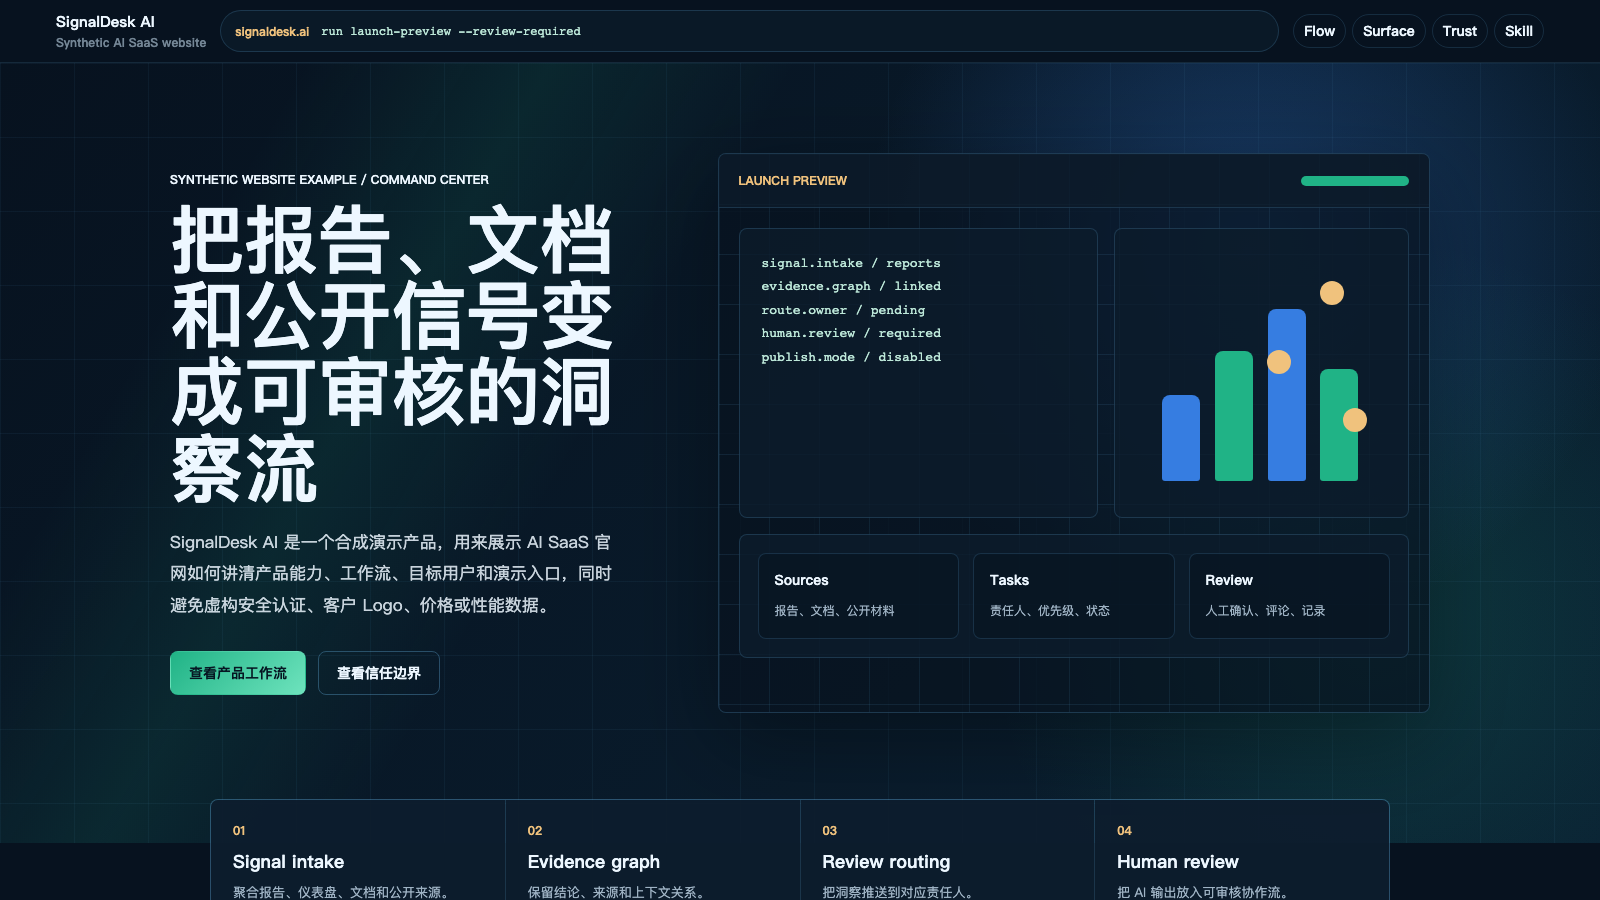
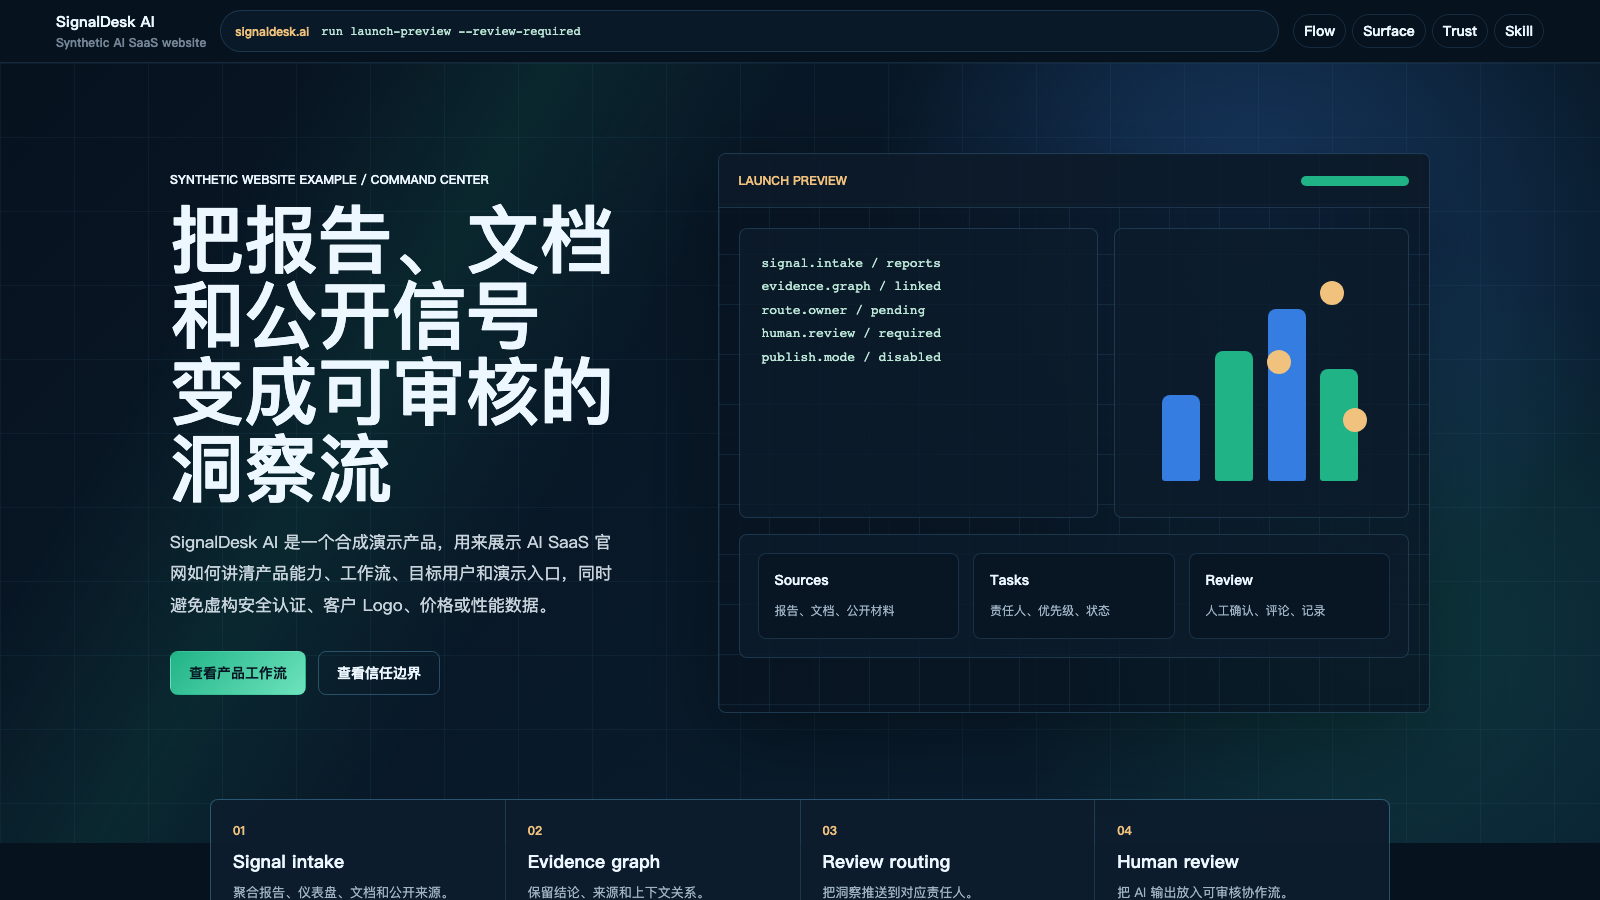
Fix responsive demo alignment

Changed region(s): [[0.0938, 0.3111, 0.4062, 0.56]]

diff --git a/site/examples/example-sites.css b/site/examples/example-sites.css
@@ -38,6 +38,26 @@ p {
   margin-top: 0;
 }
 
+h1,
+h2,
+h3,
+.button,
+nav a,
+strong,
+b {
+  overflow-wrap: anywhere;
+}
+
+p,
+li,
+span {
+  overflow-wrap: break-word;
+}
+
+.hero-phrase {
+  display: inline-block;
+}
+
 .site-header {
   position: sticky;
   top: 0;
@@ -239,6 +259,7 @@ nav a:focus-visible {
   font-size: clamp(42px, 6.2vw, 76px);
   line-height: 1.02;
   font-weight: 900;
+  text-wrap: normal;
 }
 
 .b2b-hero-copy {
@@ -708,6 +729,7 @@ nav a:focus-visible {
   margin-bottom: 20px;
   font-size: clamp(42px, 5.8vw, 72px);
   line-height: 1.04;
+  text-wrap: normal;
 }
 
 .industrial-hero-copy {
@@ -1326,6 +1348,7 @@ nav a:focus-visible {
   margin-bottom: 20px;
   font-size: clamp(42px, 5.9vw, 74px);
   line-height: 1.03;
+  text-wrap: normal;
 }
 
 .ai-hero-copy {
@@ -1737,6 +1760,197 @@ nav a:focus-visible {
   .b2b-footer-index b {
     font-size: 14px;
     line-height: 1.35;
+  }
+}
+
+@media (min-width: 1061px) and (max-width: 1280px) {
+  .section {
+    padding: 78px 0;
+  }
+
+  .section-head {
+    max-width: 680px;
+    margin-bottom: 30px;
+  }
+
+  .section-head h2 {
+    font-size: clamp(30px, 3.6vw, 40px);
+    line-height: 1.16;
+  }
+
+  .demo-b2b main,
+  .demo-b2b .b2b-footer {
+    margin-left: 240px;
+  }
+
+  .demo-b2b .site-header.b2b-rail {
+    width: 240px;
+    padding: 26px 20px;
+  }
+
+  .demo-b2b .site-header.b2b-rail .brand strong {
+    max-width: 180px;
+    font-size: 19px;
+    line-height: 1.12;
+  }
+
+  .demo-b2b .site-header.b2b-rail nav a {
+    min-height: 52px;
+  }
+
+  .demo-b2b .b2b-hero {
+    min-height: auto;
+    padding: 72px 0 56px;
+  }
+
+  .demo-b2b .b2b-hero-inner,
+  .demo-b2b .b2b-strip,
+  .demo-b2b .section,
+  .demo-b2b .final-cta {
+    width: min(920px, calc(100% - 48px));
+  }
+
+  .demo-b2b .b2b-hero-inner {
+    grid-template-columns: 1fr;
+    gap: 30px;
+  }
+
+  .demo-b2b .b2b-hero h1 {
+    max-width: 780px;
+    font-size: clamp(44px, 4.9vw, 58px);
+    line-height: 1.08;
+  }
+
+  .demo-b2b .b2b-hero-copy {
+    max-width: 760px;
+    font-size: 16px;
+    line-height: 1.78;
+  }
+
+  .demo-b2b .dossier-board {
+    min-height: 360px;
+    padding: 22px;
+  }
+
+  .demo-b2b .dossier-title {
+    padding-bottom: 18px;
+  }
+
+  .demo-b2b .dossier-index {
+    margin-top: 20px;
+  }
+
+  .demo-b2b .dossier-index div {
+    min-height: 84px;
+    padding: 16px;
+  }
+
+  .demo-b2b .b2b-strip {
+    grid-template-columns: repeat(2, minmax(0, 1fr));
+    border-top: 1px solid var(--line);
+  }
+
+  .demo-b2b .b2b-strip div {
+    min-height: 102px;
+    border-right: 1px solid var(--line);
+  }
+
+  .demo-b2b .b2b-strip div:nth-child(2n) {
+    border-right: 0;
+  }
+
+  .demo-b2b .b2b-strip div:nth-last-child(-n+2) {
+    border-bottom: 0;
+  }
+
+  .demo-b2b .proof-dossier {
+    grid-template-columns: 1fr;
+    gap: 30px;
+  }
+
+  .demo-b2b .proof-cards {
+    grid-template-columns: repeat(3, minmax(0, 1fr));
+  }
+
+  .demo-b2b .proof-cards article {
+    min-height: 230px;
+  }
+
+  .demo-b2b .b2b-stepper {
+    grid-template-columns: 220px 1fr;
+  }
+
+  .demo-industrial .industrial-hero {
+    min-height: 690px;
+    padding-top: 94px;
+  }
+
+  .demo-industrial .industrial-hero-inner {
+    grid-template-columns: minmax(0, 1fr) minmax(360px, 0.92fr);
+    gap: 34px;
+    padding-bottom: 64px;
+  }
+
+  .demo-industrial .industrial-hero h1 {
+    font-size: clamp(40px, 4.3vw, 52px);
+    line-height: 1.06;
+  }
+
+  .demo-industrial .plant-diagram {
+    min-height: 470px;
+  }
+
+  .demo-industrial .industrial-layout,
+  .demo-industrial .site-hotspots {
+    grid-template-columns: minmax(0, 0.95fr) minmax(380px, 1.05fr);
+    gap: 34px;
+  }
+
+  .demo-industrial .project-rail article {
+    min-height: 230px;
+    padding: 22px;
+  }
+
+  .demo-ai .ai-hero {
+    min-height: 720px;
+    padding: 78px 0 64px;
+  }
+
+  .demo-ai .ai-hero-inner {
+    grid-template-columns: minmax(0, 1fr) minmax(420px, 0.94fr);
+    gap: 34px;
+  }
+
+  .demo-ai .ai-hero h1 {
+    font-size: clamp(40px, 4.35vw, 52px);
+    line-height: 1.07;
+  }
+
+  .demo-ai .ai-hero-copy {
+    font-size: 16px;
+    line-height: 1.78;
+  }
+
+  .demo-ai .command-window {
+    min-height: 500px;
+  }
+
+  .demo-ai .terminal-card,
+  .demo-ai .signal-graph {
+    min-height: 250px;
+  }
+
+  .demo-ai .review-card div {
+    min-height: 78px;
+  }
+
+  .demo-ai .site-header.ai-command-nav {
+    grid-template-columns: minmax(180px, auto) minmax(260px, 1fr) auto;
+    gap: 10px;
+  }
+
+  .demo-ai .site-header.ai-command-nav nav a {
+    padding: 0 8px;
   }
 }
 
@@ -2233,13 +2447,22 @@ nav a:focus-visible {
   }
 
   .demo-industrial .industrial-nav {
-    display: flex;
+    display: grid;
+    grid-template-columns: repeat(2, minmax(0, 1fr));
     border-top: 1px solid rgba(180, 220, 214, 0.16);
+    overflow-x: visible;
+    white-space: normal;
   }
 
   .demo-industrial .industrial-nav a {
-    min-width: max-content;
+    min-width: 0;
+    min-height: 40px;
     padding: 0 12px;
+    border-right: 1px solid rgba(180, 220, 214, 0.14);
+    text-align: center;
+  }
+
+  .demo-industrial .industrial-nav a:nth-child(2n) {
     border-right: 0;
   }
 

diff --git a/site/styles.css b/site/styles.css
@@ -546,6 +546,10 @@ pre {
   line-height: 1.65;
 }
 
+pre code {
+  white-space: pre;
+}
+
 .example-grid {
   display: grid;
   grid-template-columns: repeat(3, minmax(0, 1fr));
@@ -693,6 +697,17 @@ pre {
     gap: 14px;
     padding-bottom: 4px;
     white-space: nowrap;
+  }
+
+  pre {
+    overflow-x: visible;
+    white-space: pre-wrap;
+    word-break: break-word;
+  }
+
+  pre code {
+    white-space: inherit;
+    word-break: inherit;
   }
 
   .hero {

diff --git a/site/examples/ai-saas-product/index.html b/site/examples/ai-saas-product/index.html
@@ -52,7 +52,7 @@
       <div class="ai-hero-inner">
         <div>
           <p class="demo-label">Synthetic website example / command center</p>
-          <h1 id="hero-title">把报告、文档和公开信号变成可审核的洞察流</h1>
+          <h1 id="hero-title"><span class="hero-phrase">把报告、文档</span><span class="hero-phrase">和公开信号</span><span class="hero-phrase">变成可审核的</span><span class="hero-phrase">洞察流</span></h1>
           <p class="ai-hero-copy">SignalDesk AI 是一个合成演示产品，用来展示 AI SaaS 官网如何讲清产品能力、工作流、目标用户和演示入口，同时避免虚构安全认证、客户 Logo、价格或性能数据。</p>
           <div class="ai-actions">
             <a class="button primary" href="#workflow">查看产品工作流</a>

diff --git a/site/examples/b2b-service/index.html b/site/examples/b2b-service/index.html
@@ -50,7 +50,7 @@
       <div class="b2b-hero-inner">
         <div>
           <p class="demo-label b2b-kicker">Synthetic website example / editorial dossier</p>
-          <h1 id="hero-title">把专业服务官网做成管理层能读懂的运营档案</h1>
+          <h1 id="hero-title"><span class="hero-phrase">把专业服务官网</span><span class="hero-phrase">做成管理层</span><span class="hero-phrase">能读懂的运营档案</span></h1>
           <p class="b2b-hero-copy">Northstar Operations Studio 是一个合成演示品牌，用来展示 B2B 专业服务官网如何先讲清服务对象、交付目录、证据边界和咨询路径，而不是堆叠空泛口号或虚构客户背书。</p>
           <div class="b2b-actions">
             <a class="button primary" href="#services">查看服务目录</a>

diff --git a/site/examples/industrial-green-tech/index.html b/site/examples/industrial-green-tech/index.html
@@ -55,7 +55,7 @@
       <div class="industrial-hero-inner">
         <div>
           <p class="demo-label">Synthetic website example / field system</p>
-          <h1 id="hero-title">面向工业现场的水处理与环保工程方案</h1>
+          <h1 id="hero-title"><span class="hero-phrase">面向工业现场的</span><span class="hero-phrase">水处理与环保</span><span class="hero-phrase">工程方案</span></h1>
           <p class="industrial-hero-copy">ClearFlow Environmental Systems 是一个合成演示品牌，用来展示工程型企业官网如何讲清工艺设计、设备集成、调试计划和运维支持，同时避免虚构处理规模、专利证书或环保成果。</p>
           <div class="industrial-actions">
             <a class="button primary" href="#capabilities">查看工程能力</a>